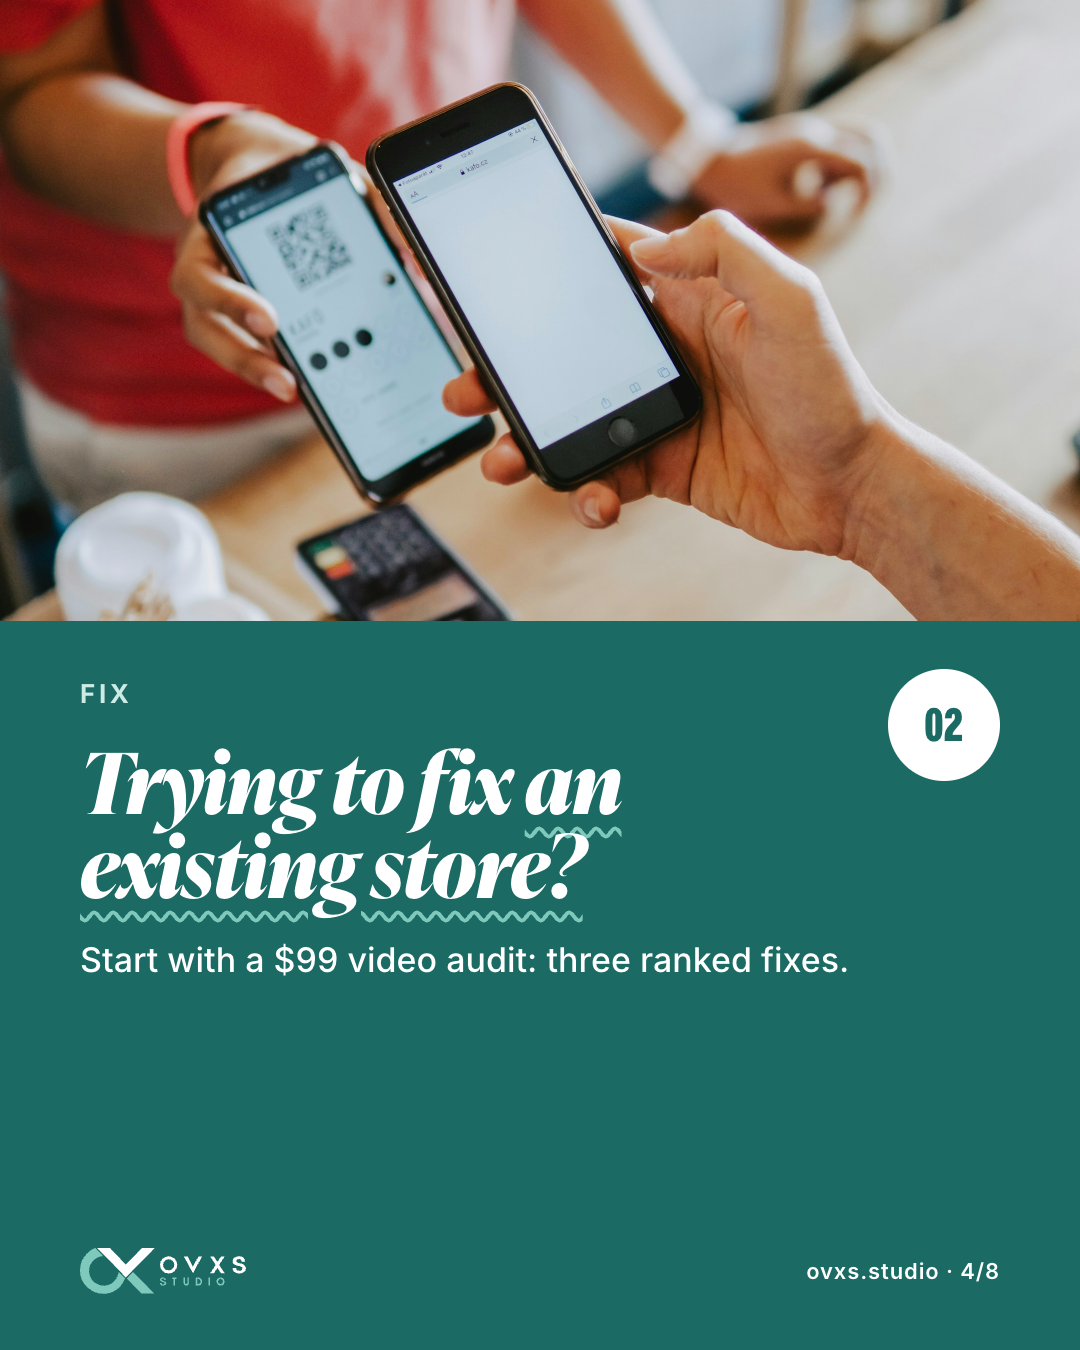
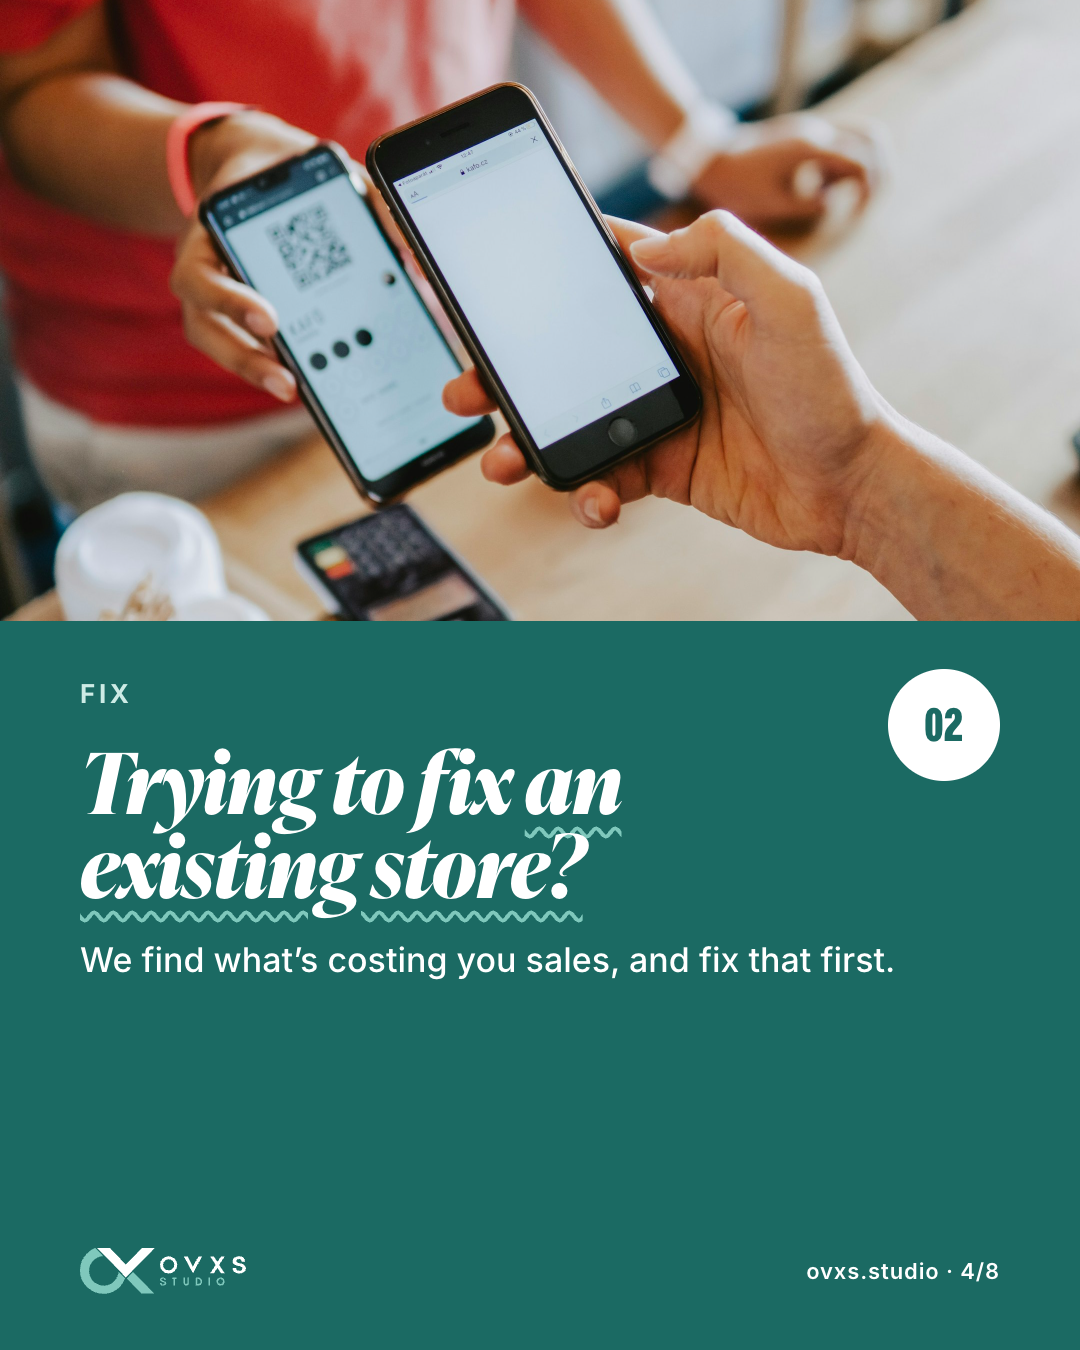
content: daily run 2026-11-16 — test intro piece redrafted without project prices, back in review
Ramit re-picked angle A with “Remove pricing from Angle A”. Launch, Move and
Growth prices and the “we publish our prices” lines are gone from all six
formats; slides 3–5 re-rendered and re-uploaded to the Desk. The $99 video
audit stays as the CTA. Tracker: too-many-apps back to awaiting-decision.

Changed region(s): [[0.0611, 0.6844, 0.825, 0.7467]]

diff --git a/topics/2026-11-14-what-studio-ovxs-does-test/page.html b/topics/2026-11-14-what-studio-ovxs-does-test/page.html
@@ -183,9 +183,9 @@ Not sure where to start? Our $99 video audit gives you three ranked fixes for yo
       <div class="meta"><div><b>Subject:</b> Building, fixing or scaling?</div><div><b>Preview:</b> What Studio OVXS does, in one short read.</div></div>
       <div class="body">
         <p>Most businesses come to us with one of three questions.</p>
-      <p>Building something new? We plan, design and build it on Shopify. Launch from $3,000, in 3–6 weeks.</p>
+      <p>Building something new? We plan, design and build it on Shopify.</p>
       <p>Trying to fix an existing store? We find what’s costing you sales and fix that first, often without a redesign.</p>
-      <p>Scaling into what’s next? We build the custom parts that off-the-shelf themes and apps can’t. Growth builds from $6,500, in 6–10 weeks.</p>
+      <p>Scaling into what’s next? We build the custom parts that off-the-shelf themes and apps can’t.</p>
       <p>Whichever it is, strategy, UX, design and technology come from one senior team. And business comes first, technology second.</p>
       <p>Not sure which one you are? Start with a $99 video audit: a 10–15 minute walkthrough of your store with three ranked fixes. No logins, no call. For a bigger project, a free 30-minute call works too.</p>
         <p style="margin-top:24px"><a class="btn" href="https://ovxs.studio/pages/request-audit">Book a $99 video audit →</a></p>
@@ -202,11 +202,12 @@ Not sure where to start? Our $99 video audit gives you three ranked fixes for yo
       <p>Here’s what that means in practice.</p>
       <h3>Who we work with</h3>
       <p>We work with businesses that want more from their digital commerce experience. They usually arrive with one of three questions.</p>
-      <p><b>Building something new?</b> You have a product, a brand or a plan, and you need a store that’s right from day one. We plan it, design it and build it on Shopify. A launch starts from $3,000 and takes 3–6 weeks. If you’re moving from WooCommerce, Squarespace, Wix or somewhere else, a move to Shopify starts from $1,500, and we look after your data, redirects and rankings on the way.</p>
+      <p><b>Building something new?</b> You have a product, a brand or a plan, and you need a store that’s right from day one. We plan it, design it and build it on Shopify. If you’re moving from WooCommerce, Squarespace, Wix or somewhere else, we move you to Shopify and look after your data, redirects and rankings on the way.</p>
       <p><b>Trying to fix an existing store?</b> Traffic comes in, sales don’t, and you’re not sure why. This is where we’re most often honest in a way that costs us work. The fix is rarely a redesign. It’s usually checkout friction, too many apps, unclear pricing or missing trust. We find what’s costing you sales and fix that first.</p>
-      <p><b>Scaling into what’s next?</b> Your store is working, and now it needs to do more: subscriptions, courses, complex catalogues, connected systems. That’s where off-the-shelf themes and apps run out. A growth build starts from $6,500 and takes 6–10 weeks. For <a href="https://ovxs.studio/blogs/case-studies/naba-from-wellness-start-up-to-quicksilver-scientific">Naba</a>, that meant 150+ page and product templates and 15+ expert-led courses launched on Shopify, before the business was acquired by Quicksilver Scientific.</p>
+      <p><b>Scaling into what’s next?</b> Your store is working, and now it needs to do more: subscriptions, courses, complex catalogues, connected systems. That’s where off-the-shelf themes and apps run out. For <a href="https://ovxs.studio/blogs/case-studies/naba-from-wellness-start-up-to-quicksilver-scientific">Naba</a>, that meant 150+ page and product templates and 15+ expert-led courses launched on Shopify, before the business was acquired by Quicksilver Scientific.</p>
       <h3>What we bring</h3>
       <p>We bring together strategy, UX, design and technology. That sounds like a list of departments, but it isn’t. It’s the same small team, start to finish.</p>
+      <p>When those four sit with different people, every hand-off loses something. A strategy nobody designs to. A design that ignores how Shopify actually works. A build that the team can’t edit without calling a developer. Keeping them in one small team is how a store ends up both good to look at and easy to run.</p>
       <p><b>Strategy</b> is deciding what the store needs to do for the business before anyone opens a design file.</p>
       <p><b>UX</b> is making that easy for a shopper on a phone, in a hurry, who has never heard of you.</p>
       <p><b>Design</b> is how it looks and feels, so it reads as yours and nobody else’s.</p>
@@ -214,12 +215,12 @@ Not sure where to start? Our $99 video audit gives you three ranked fixes for yo
       <p>Senior people do this work. You talk to the people building your store, not to a sales team relaying messages.</p>
       <h3>What working with us looks like</h3>
       <p>Every project starts the same way: we look before we quote. That might be a $99 video audit of your current store, or a free 30-minute call about what you want to build. Either way, you get a straight answer about what’s worth doing, and what isn’t.</p>
-      <p>Then you get a fixed price and a plan, so you know the cost and the timeline before anything starts. We publish our starting prices for the same reason. You talk to the people doing the work throughout, not to an account manager in between.</p>
+      <p>Then you get a fixed price and a plan, so you know the cost and the timeline before anything starts. You talk to the people doing the work throughout, not to an account manager in between.</p>
       <p>When the store is live, we don’t disappear. We can stay on as a long-term partner: new sections, new campaigns, speed and SEO work, and an honest second opinion when someone tries to sell you an app you don’t need.</p>
       <h3>How we think: business first, technology second</h3>
       <p>If there’s one line that explains how we work, it’s this one. Business first, technology second.</p>
       <p>We like good technology and we like good design. But neither is the point. The point is a store that sells, that your team can run, and that doesn’t cost more every month than it earns.</p>
-      <p>So we’ll tell you when an app does the job better than custom code. We’ll tell you when a redesign isn’t the answer. And we publish our prices, so you know where you stand before we talk.</p>
+      <p>So we’ll tell you when an app does the job better than custom code. We’ll tell you when a redesign isn’t the answer.</p>
       <h3>Where to start</h3>
       <p>If you already know what you need, a free 30-minute call with us is the quickest way to talk it through. No pitch, no obligation.</p>
       <p>If you’re not sure which of the three questions is yours, start smaller. Our $99 video audit is a 10–15 minute recorded walkthrough of your public store: what’s working, what’s costing you, and three ranked fixes. No logins, no call, delivered within 3 working days. If you start a project with us within 60 days, the $99 is credited in full.</p>
@@ -229,7 +230,7 @@ Not sure where to start? Our $99 video audit gives you three ranked fixes for yo
         <div><b>Meta description:</b> Studio OVXS is a senior Shopify studio. We help businesses launch, fix and scale their stores, from strategy to store. Here’s what we do and how.</div>
         <div><b>Target keyword:</b> Shopify studio</div>
         <div><b>Slug:</b> /blogs/journal/what-studio-ovxs-does</div>
-        <div><b>Length:</b> about 800 words</div>
+        <div><b>Length:</b> about 810 words</div>
       </div>
     </article>
   </section>
@@ -245,9 +246,9 @@ Not sure where to start? Our $99 video audit gives you three ranked fixes for yo
 const slides=[
   {bg:"primary",ph:"cover",ey:"Studio OVXS",hd:"Building better <span style=\"white-space:nowrap\">e-commerce.</span> <em>From strategy to store.</em>",sb:"Who we work with, and how. Swipe."},
   {bg:"dark",ey:"Who we work with",hd:"<span style=\"font-size:86px;display:block;line-height:1.02\">We work with businesses that want <em>more from their digital commerce experience.</em></span>",sb:""},
-  {bg:"container",ph:"new",n:"01",ey:"New",hd:"Building <em>something new?</em>",sb:"Launch on Shopify from $3,000, in 3–6 weeks."},
-  {bg:"primary",ph:"fix",n:"02",ey:"Fix",hd:"Trying to fix <em>an existing store?</em>",sb:"Start with a $99 video audit: three ranked fixes."},
-  {bg:"dark",ph:"scale",n:"03",ey:"Scale",hd:"Scaling into <em>what’s next?</em>",sb:"Growth builds from $6,500, in 6–10 weeks."},
+  {bg:"container",ph:"new",n:"01",ey:"New",hd:"Building <em>something new?</em>",sb:"We plan, design and build it on Shopify."},
+  {bg:"primary",ph:"fix",n:"02",ey:"Fix",hd:"Trying to fix <em>an existing store?</em>",sb:"We find what’s costing you sales, and fix that first."},
+  {bg:"dark",ph:"scale",n:"03",ey:"Scale",hd:"Scaling into <em>what’s next?</em>",sb:"We build what themes and apps can’t."},
   {bg:"surface",ey:"What we bring",hd:"We bring together <em>strategy + UX + design + technology.</em>",sb:"One senior team, start to finish."},
   {bg:"container",ey:"How we think",hd:"Business first. <em>Technology second.</em>",sb:"If an app or a small fix will do, we’ll say so."},
   {bg:"dark",ey:"Welcome",hd:"Welcome to <em>Studio OVXS.</em>",sb:"10+ years on Shopify. Senior people do the work.",cta:"Book a $99 video audit →"}

diff --git a/topics/2026-11-14-what-studio-ovxs-does-test/copy.md b/topics/2026-11-14-what-studio-ovxs-does-test/copy.md
@@ -1,6 +1,6 @@
 # What Studio OVXS does. An introduction. — copy (TEST)
 
-Ramit’s copy, used as is. Behind the studio · Everyone · CTA: $99 video audit.
+Ramit’s copy, used as is. Revised 2026-11-16: project prices removed (Ramit’s note). Behind the studio · Everyone · CTA: $99 video audit.
 
 ## LinkedIn post
 
@@ -44,9 +44,9 @@ If you’re not sure, our $99 video audit is a 10–15 minute walkthrough of you
 
 1. Cover (photo) · Studio OVXS — Building better e-commerce. *From strategy to store.* — Who we work with, and how. Swipe.
 2. Who we work with — We work with businesses that want *more from their digital commerce experience.*
-3. 01 · New (photo) — Building *something new?* — Launch on Shopify from $3,000, in 3–6 weeks.
-4. 02 · Fix (photo) — Trying to fix *an existing store?* — Start with a $99 video audit: three ranked fixes.
-5. 03 · Scale (photo) — Scaling into *what’s next?* — Growth builds from $6,500, in 6–10 weeks.
+3. 01 · New (photo) — Building *something new?* — We plan, design and build it on Shopify.
+4. 02 · Fix (photo) — Trying to fix *an existing store?* — We find what’s costing you sales, and fix that first.
+5. 03 · Scale (photo) — Scaling into *what’s next?* — We build what themes and apps can’t.
 6. What we bring — We bring together *strategy + UX + design + technology.* — One senior team, start to finish.
 7. How we think — Business first. *Technology second.* — If an app or a small fix will do, we’ll say so.
 8. Final — Welcome to *Studio OVXS.* — 10+ years on Shopify. Senior people do the work. — Book a $99 video audit →
@@ -72,11 +72,11 @@ Not sure where to start? Our $99 video audit gives you three ranked fixes for yo
 
 Most businesses come to us with one of three questions.
 
-Building something new? We plan, design and build it on Shopify. Launch from $3,000, in 3–6 weeks.
+Building something new? We plan, design and build it on Shopify.
 
 Trying to fix an existing store? We find what’s costing you sales and fix that first, often without a redesign.
 
-Scaling into what’s next? We build the custom parts that off-the-shelf themes and apps can’t. Growth builds from $6,500, in 6–10 weeks.
+Scaling into what’s next? We build the custom parts that off-the-shelf themes and apps can’t.
 
 Whichever it is, strategy, UX, design and technology come from one senior team. And business comes first, technology second.
 
@@ -100,15 +100,17 @@ Here’s what that means in practice.
 
 We work with businesses that want more from their digital commerce experience. They usually arrive with one of three questions.
 
-**Building something new?** You have a product, a brand or a plan, and you need a store that’s right from day one. We plan it, design it and build it on Shopify. A launch starts from $3,000 and takes 3–6 weeks. If you’re moving from WooCommerce, Squarespace, Wix or somewhere else, a move to Shopify starts from $1,500, and we look after your data, redirects and rankings on the way.
+**Building something new?** You have a product, a brand or a plan, and you need a store that’s right from day one. We plan it, design it and build it on Shopify. If you’re moving from WooCommerce, Squarespace, Wix or somewhere else, we move you to Shopify and look after your data, redirects and rankings on the way.
 
 **Trying to fix an existing store?** Traffic comes in, sales don’t, and you’re not sure why. This is where we’re most often honest in a way that costs us work. The fix is rarely a redesign. It’s usually checkout friction, too many apps, unclear pricing or missing trust. We find what’s costing you sales and fix that first.
 
-**Scaling into what’s next?** Your store is working, and now it needs to do more: subscriptions, courses, complex catalogues, connected systems. That’s where off-the-shelf themes and apps run out. A growth build starts from $6,500 and takes 6–10 weeks. For [Naba](https://ovxs.studio/blogs/case-studies/naba-from-wellness-start-up-to-quicksilver-scientific), that meant 150+ page and product templates and 15+ expert-led courses launched on Shopify, before the business was acquired by Quicksilver Scientific.
+**Scaling into what’s next?** Your store is working, and now it needs to do more: subscriptions, courses, complex catalogues, connected systems. That’s where off-the-shelf themes and apps run out. For [Naba](https://ovxs.studio/blogs/case-studies/naba-from-wellness-start-up-to-quicksilver-scientific), that meant 150+ page and product templates and 15+ expert-led courses launched on Shopify, before the business was acquired by Quicksilver Scientific.
 
 ### What we bring
 
 We bring together strategy, UX, design and technology. That sounds like a list of departments, but it isn’t. It’s the same small team, start to finish.
+
+When those four sit with different people, every hand-off loses something. A strategy nobody designs to. A design that ignores how Shopify actually works. A build that the team can’t edit without calling a developer. Keeping them in one small team is how a store ends up both good to look at and easy to run.
 
 **Strategy** is deciding what the store needs to do for the business before anyone opens a design file.
 
@@ -124,7 +126,7 @@ Senior people do this work. You talk to the people building your store, not to a
 
 Every project starts the same way: we look before we quote. That might be a $99 video audit of your current store, or a free 30-minute call about what you want to build. Either way, you get a straight answer about what’s worth doing, and what isn’t.
 
-Then you get a fixed price and a plan, so you know the cost and the timeline before anything starts. We publish our starting prices for the same reason. You talk to the people doing the work throughout, not to an account manager in between.
+Then you get a fixed price and a plan, so you know the cost and the timeline before anything starts. You talk to the people doing the work throughout, not to an account manager in between.
 
 When the store is live, we don’t disappear. We can stay on as a long-term partner: new sections, new campaigns, speed and SEO work, and an honest second opinion when someone tries to sell you an app you don’t need.
 
@@ -134,7 +136,7 @@ If there’s one line that explains how we work, it’s this one. Business first
 
 We like good technology and we like good design. But neither is the point. The point is a store that sells, that your team can run, and that doesn’t cost more every month than it earns.
 
-So we’ll tell you when an app does the job better than custom code. We’ll tell you when a redesign isn’t the answer. And we publish our prices, so you know where you stand before we talk.
+So we’ll tell you when an app does the job better than custom code. We’ll tell you when a redesign isn’t the answer.
 
 ### Where to start
 
@@ -149,7 +151,7 @@ Welcome to Studio OVXS.
 **Meta description:** Studio OVXS is a senior Shopify studio. We help businesses launch, fix and scale their stores, from strategy to store. Here’s what we do and how.
 **Target keyword:** Shopify studio
 **Slug:** /blogs/journal/what-studio-ovxs-does
-**Length:** about 800 words
+**Length:** about 810 words
 
 ## LinkedIn video
 

diff --git a/topics/2026-11-14-what-studio-ovxs-does-test/brief.md b/topics/2026-11-14-what-studio-ovxs-does-test/brief.md
@@ -21,7 +21,7 @@ Skipped: Ramit’s own copy, used as is. No statistics are used, so nothing need
 ### A — Ramit’s copy
 - Hook: Building better e-commerce. From strategy to store.
 - Argument: who we work with (new, fixing, scaling), what we bring, how we think.
-- Proof used: 10+ years on Shopify; published prices; Naba case study in the article.
+- Proof used: 10+ years on Shopify; Naba case study in the article.
 - Risk: an introduction can read like an ad. Kept plain and specific.
 
 ## Decisions
@@ -30,6 +30,7 @@ Skipped: Ramit’s own copy, used as is. No statistics are used, so nothing need
 - CTA: Book a $99 video audit (default). The free 30-minute call is mentioned in the article and newsletter for bigger projects.
 - Make (final): all six formats.
 - Decided on: 2026-11-14, drafted the same day in an interactive session.
+- 2026-11-16: Ramit re-decided A with “Remove pricing from Angle A”. Daily run removed every project price (Launch, Move, Growth) and the “we publish our prices” lines from all six formats. Slides 3–5 now say what we do for each kind of business (slide 4 no longer leads with the audit). Kept the $99 video audit as the CTA, since it’s the offer itself, not a price list. Added one paragraph to the article (what we bring) to keep it above 800 words.
 
 ## Photos
 See assets/credits.json.
